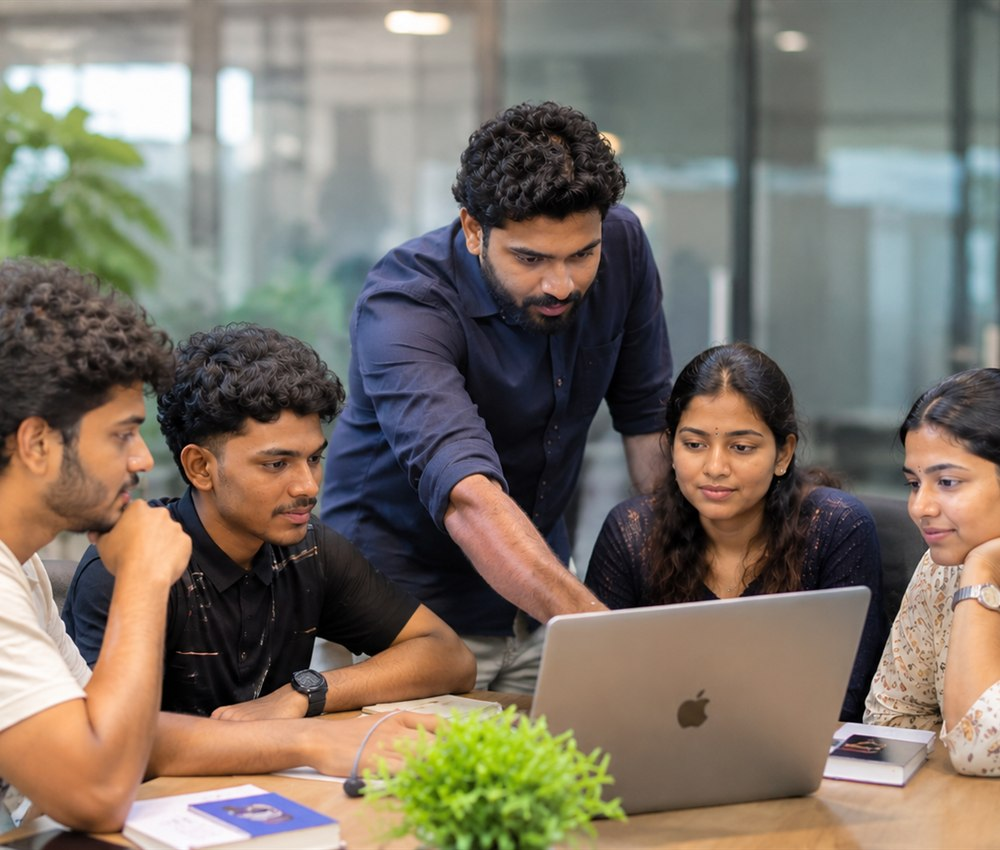
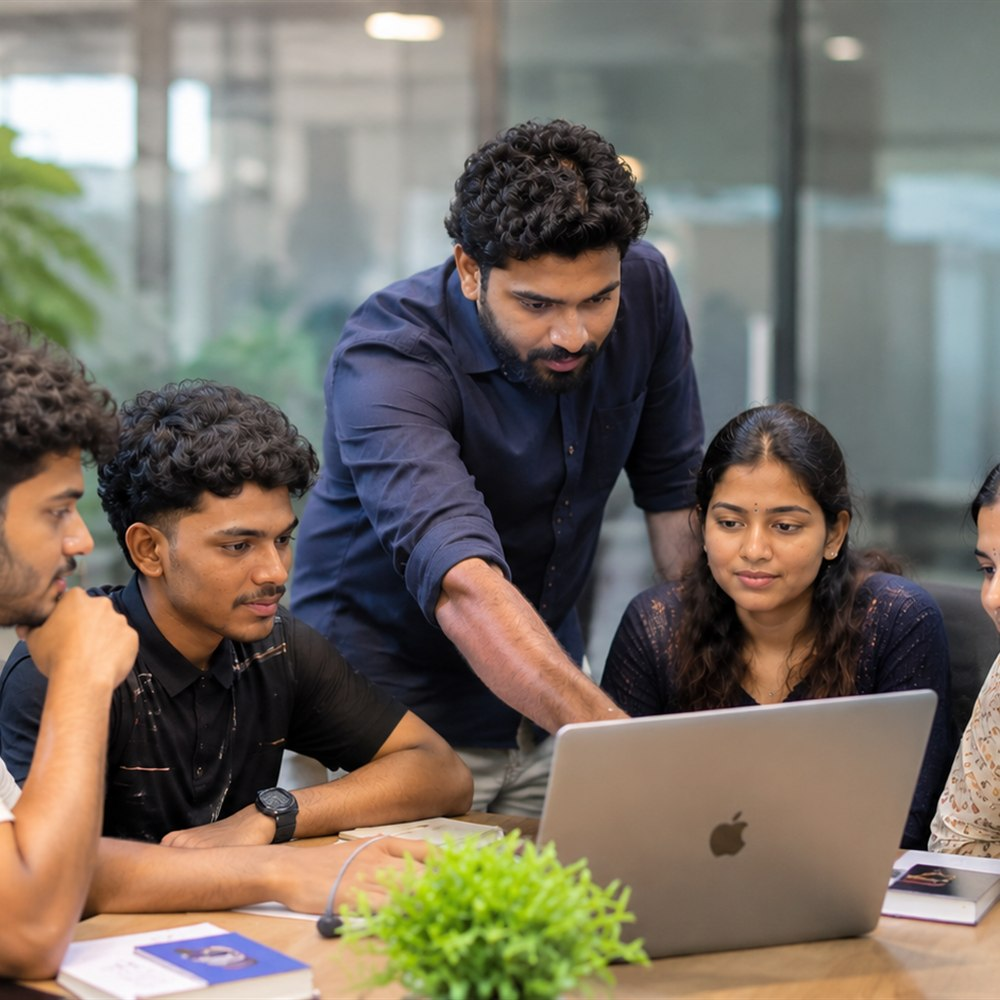
Training hero: taller image
Slot goes from 4/3.4 to square, 460x391 -> 460x460. The source is
landscape and its full height was already in use, so the extra height
has to come out of the width: recropped 941x941 centred on the group,
which keeps the trainer and three students whole and clips the two on
the ends.

diff --git a/styles.css b/styles.css
@@ -1375,7 +1375,7 @@ h1,h2,h3,h4{font-family:'Outfit',sans-serif;line-height:1.1;font-weight:800;lett
 .tp-hero-art{position:relative;display:flex;justify-content:center}
 .tp-hero-art img{
   width:100%;max-width:460px;border-radius:20px;
-  aspect-ratio:4/3.4;object-fit:cover;object-position:50% 25%;
+  aspect-ratio:1;object-fit:cover;object-position:50% 25%;
   box-shadow:0 26px 60px rgba(20,19,18,.16);
 }
 
